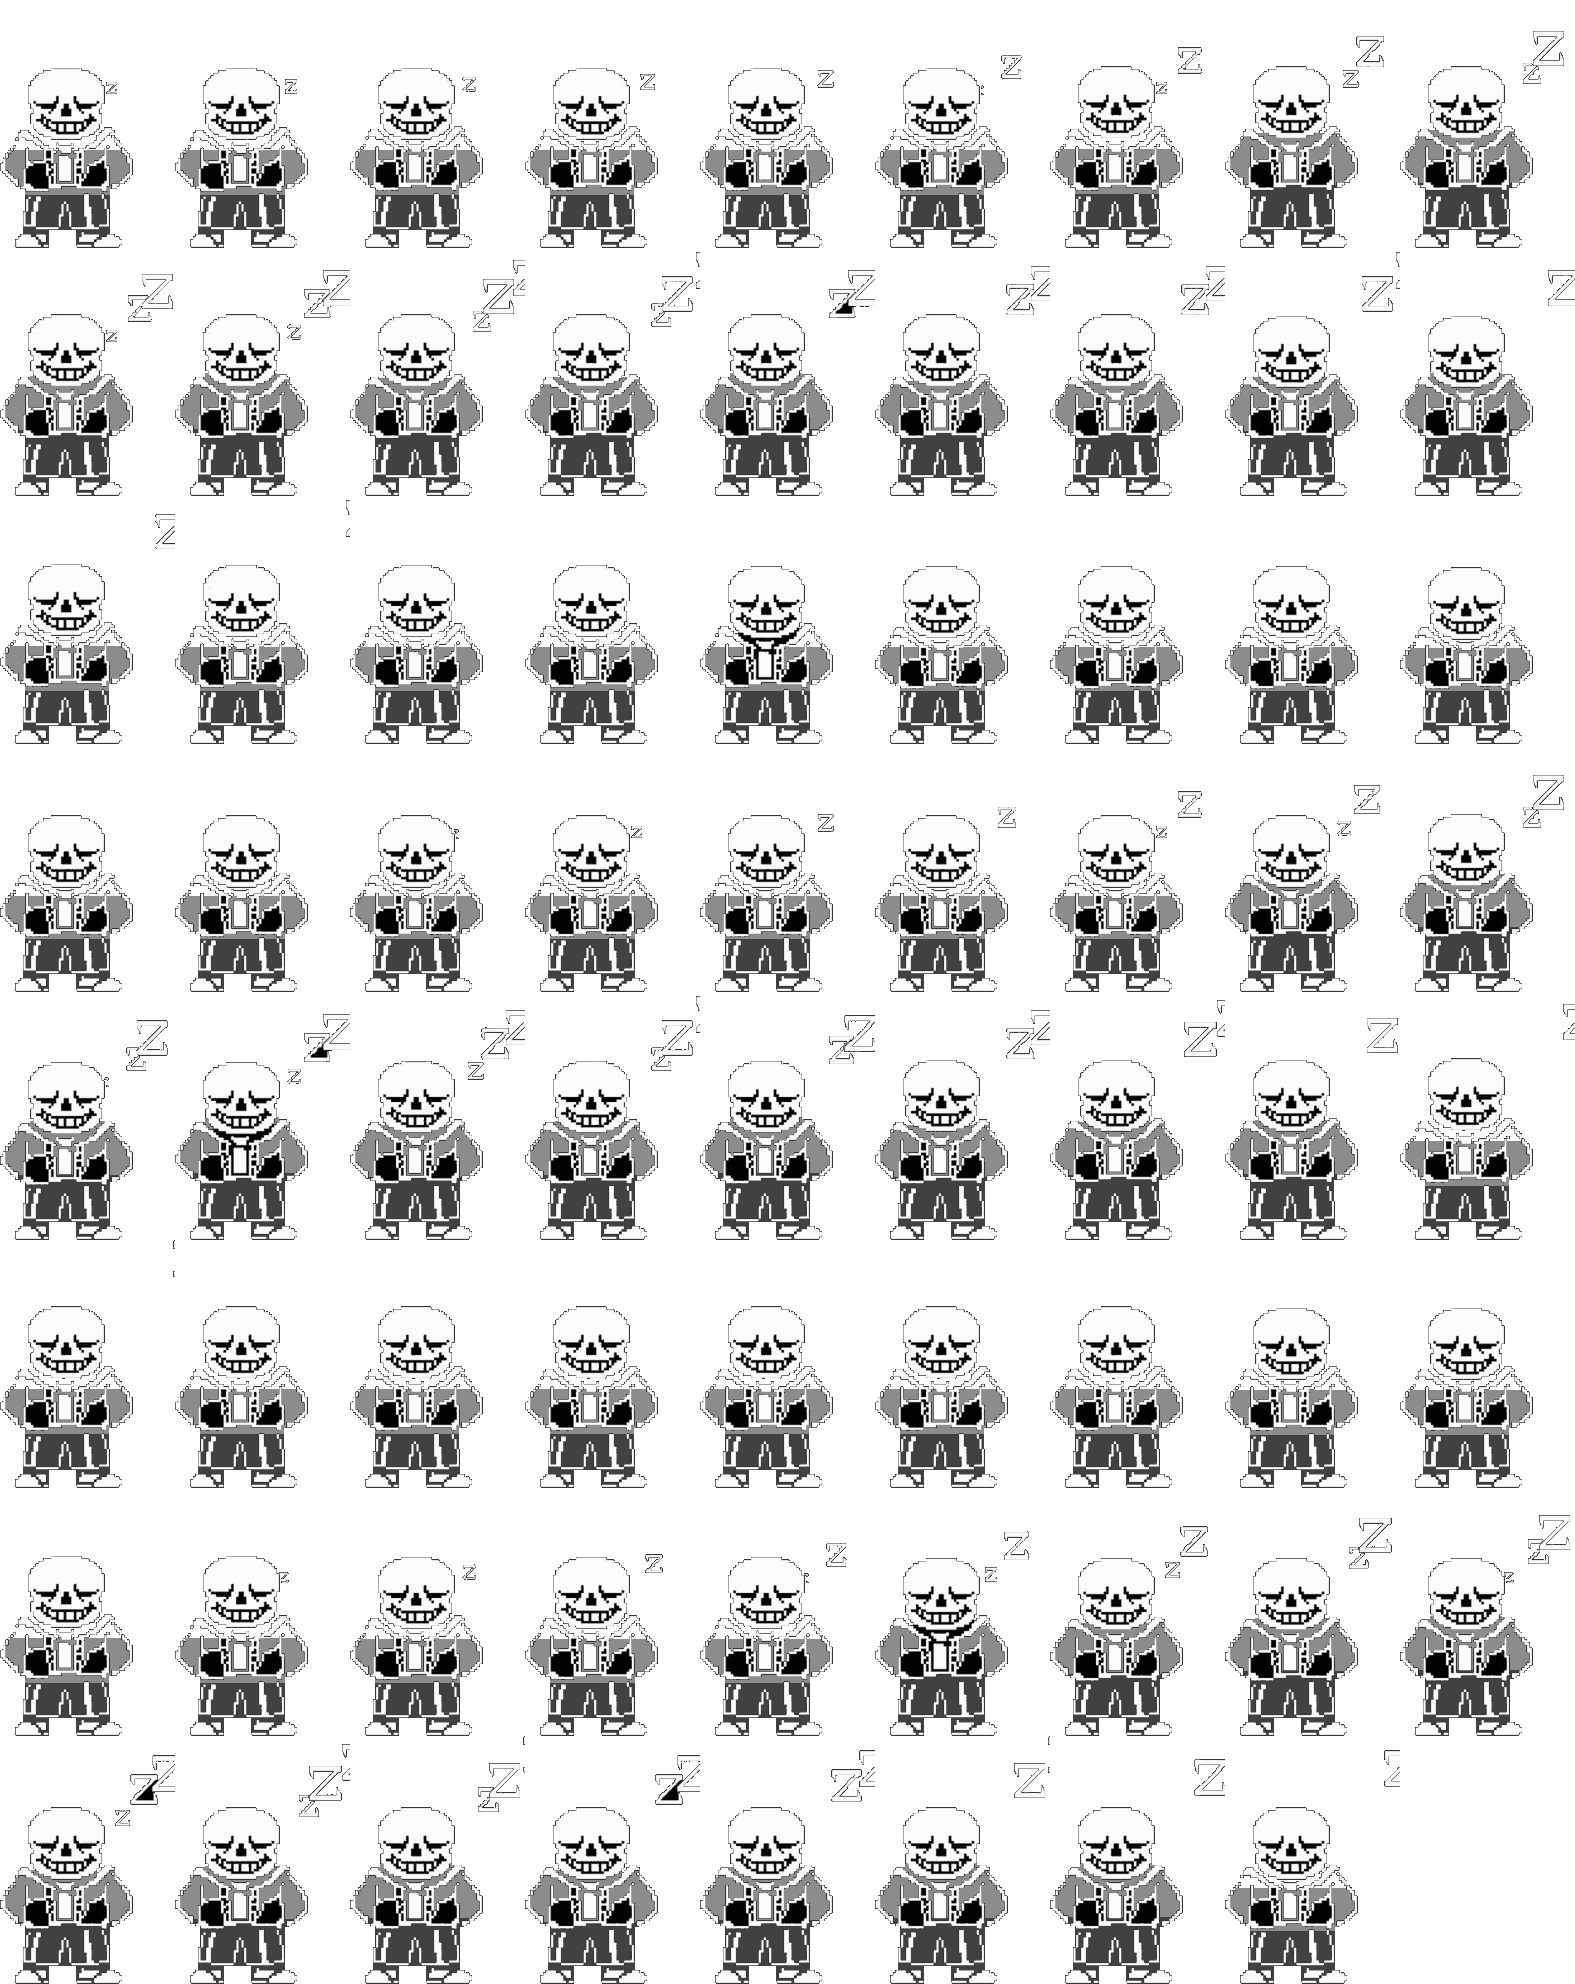
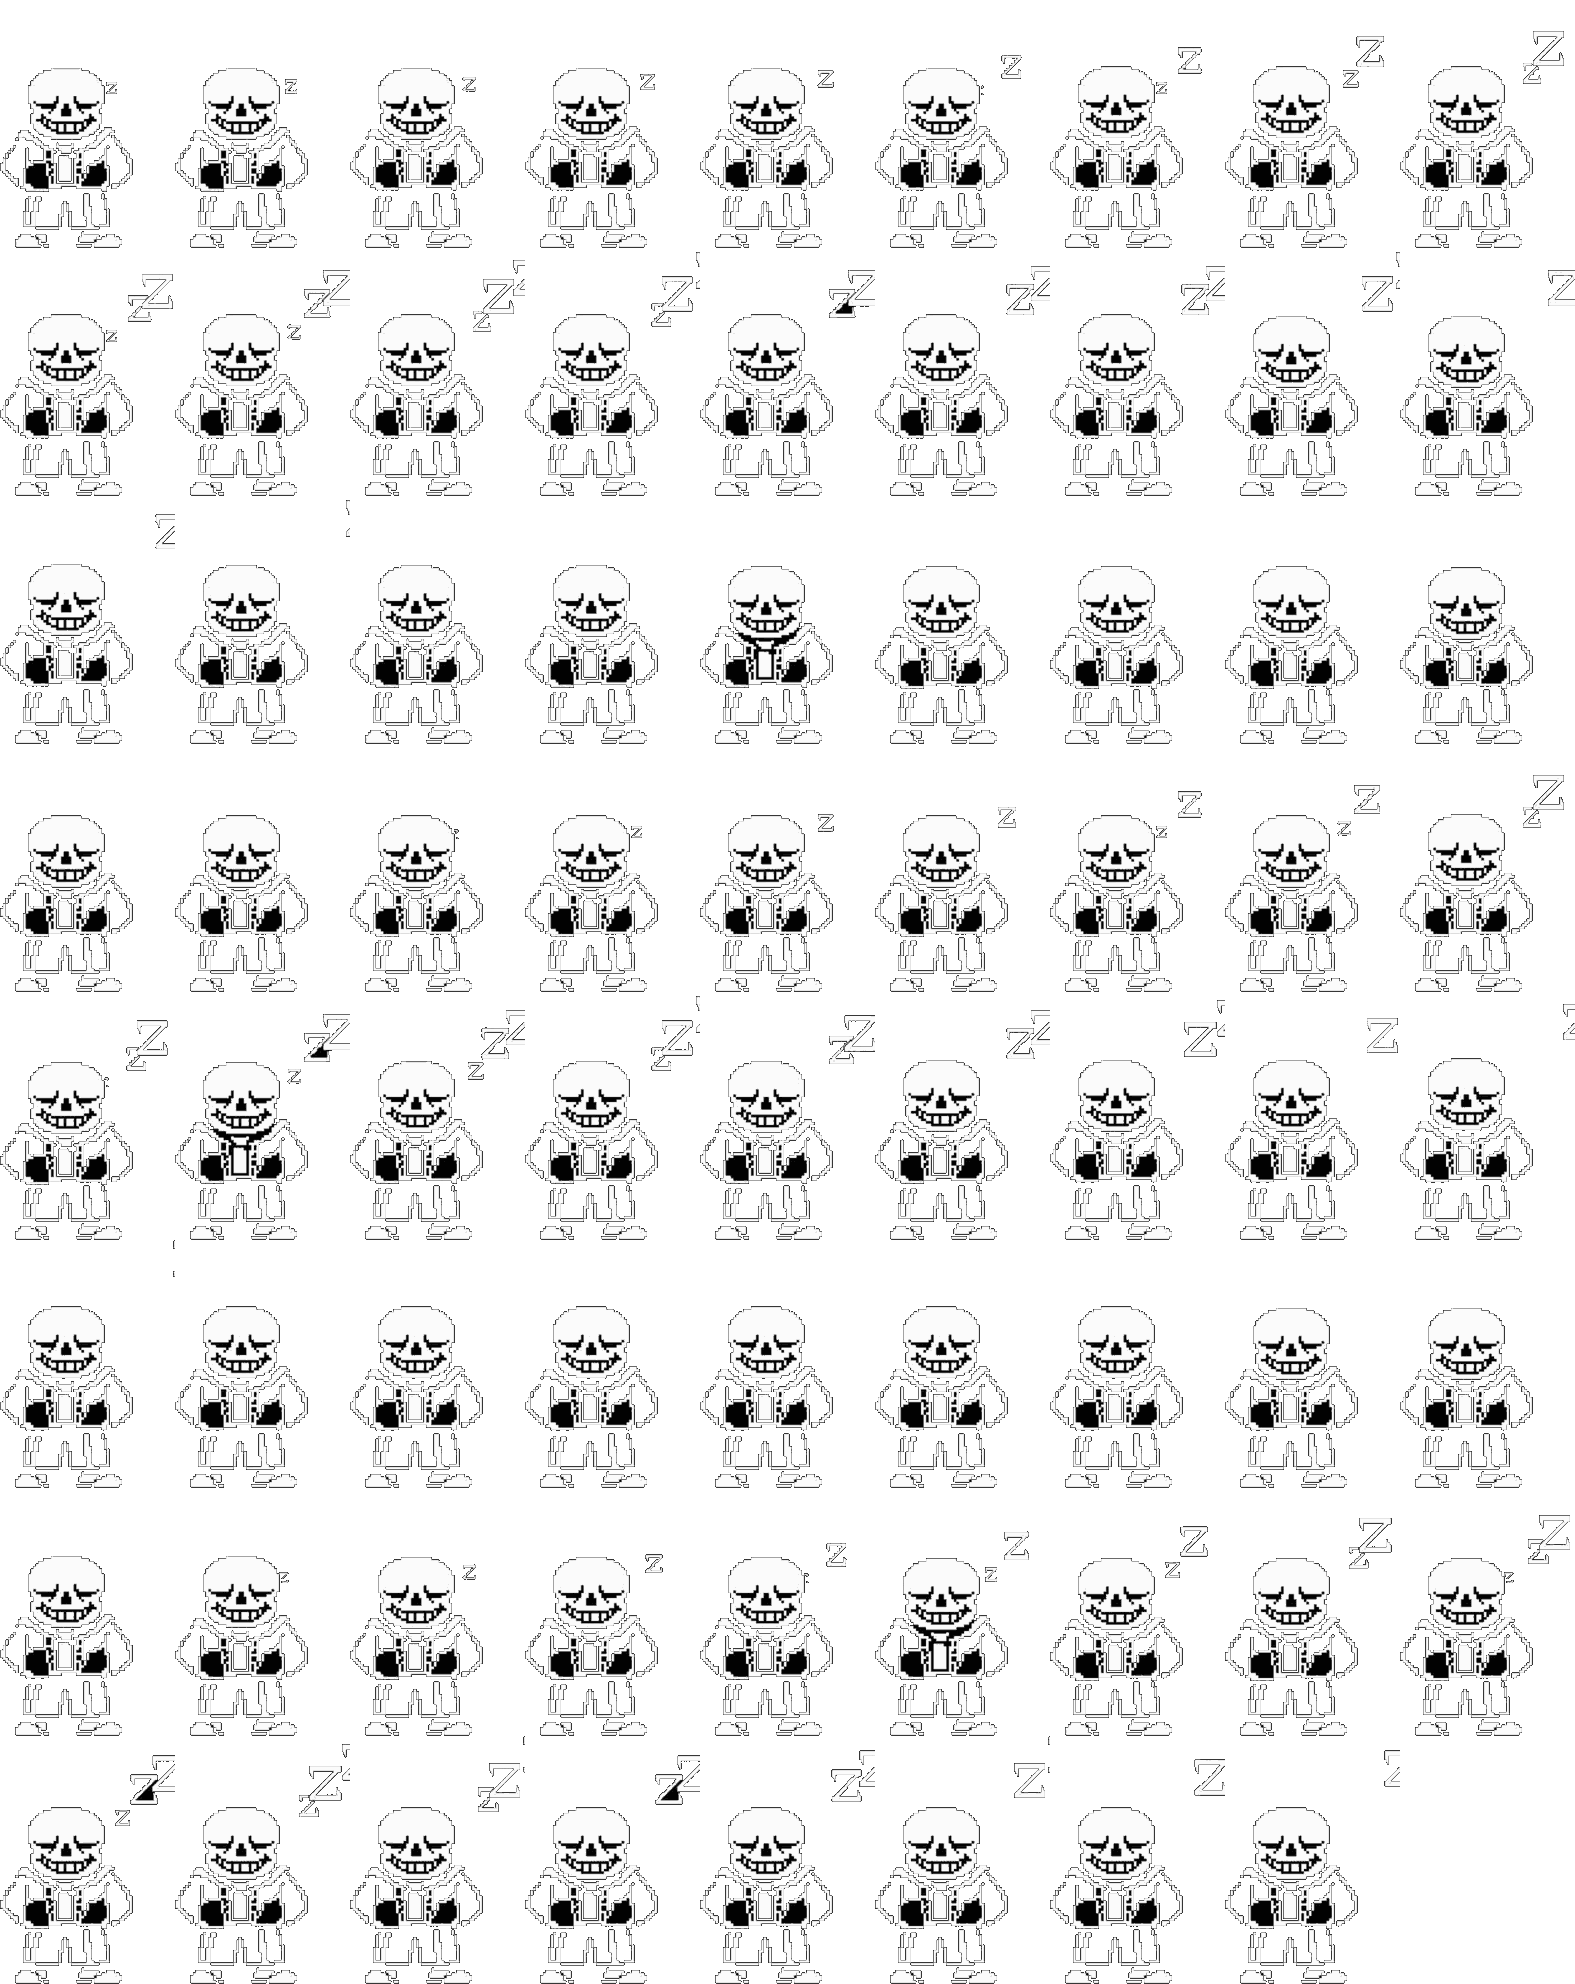
Revert Sans sprites to original (pre-fill); cache-bust
Claude-Session: https://claude.ai/code/session_015dETkK63Reb6JNnJAvDzmD

diff --git a/index.html b/index.html
@@ -1156,11 +1156,11 @@
     const SANS_HURT = new Image();
     let SANS_HURT_O = null;
     SANS_HURT.onload = () => { SANS_HURT_O = outlineSprite(SANS_HURT, 5, '#0b0b0b'); };
-    SANS_HURT.src = 'assets/sans-hurt.png?v=3';            // Sans ngồi gục
+    SANS_HURT.src = 'assets/sans-hurt.png?v=4';            // Sans ngồi gục
     const SANS_CUT = new Image();
     let SANS_CUT_O = null;
     SANS_CUT.onload = () => { SANS_CUT_O = outlineSprite(SANS_CUT, 4, '#0b0b0b'); };
-    SANS_CUT.src = 'assets/sans-cut.png?v=3';              // Sans đứng, vết chém đỏ ngang ngực
+    SANS_CUT.src = 'assets/sans-cut.png?v=4';              // Sans đứng, vết chém đỏ ngang ngực
     function outlineSprite(img, o, col) {                            // viền đen quanh sprite trắng cho dễ nhìn trên nền sáng
       const c = document.createElement('canvas'); c.width = img.width + o * 2; c.height = img.height + o * 2;
       const g = c.getContext('2d'), k = document.createElement('canvas'); k.width = img.width; k.height = img.height;
@@ -2349,7 +2349,7 @@
     // ----- Chuyển slide trong chế độ tim xanh -----
     // Chuyển tới slide kế (dir = +1: click, chém) hoặc slide trước (dir = -1: Backspace, tan)
     // ----- Slide 9.5 (Sans quiz): không có trong danh sách tim đỏ / tim xanh, chỉ xuất hiện khi bấm tiếp từ slide 9 ở chế độ tim xanh -----
-    const QUIZ_V = '20261124d';
+    const QUIZ_V = '20261125a';
     const quiz = { on: false };
     const quizEl = document.getElementById('quiz95');
     // Tải sẵn nhạc kết trong lúc người xem ở slide 9.5: vào slide 10 là chạy ngay (trình duyệt dùng lại bản đã tải)
@@ -2363,7 +2363,7 @@
     let quizWarm = false;
     function prefetchQuiz() {
       if (quizWarm) return; quizWarm = true;
-      const small = ['slide95-sans.html?embed&v=' + QUIZ_V, 'assets/papyrus.png', 'assets/papyrus-bw-anim.png', 'assets/papyrus-faces.png', 'assets/papyrus-head.png', 'assets/cauldron-px.png', 'assets/sans-head.png', 'assets/sans-shake.png?v=3', 'assets/sans-shrug.png?v=3', 'assets/sans-sleep.png?v=3', 'assets/gaster.png', 'assets/gaster-b.png',
+      const small = ['slide95-sans.html?embed&v=' + QUIZ_V, 'assets/papyrus.png', 'assets/papyrus-bw-anim.png', 'assets/papyrus-faces.png', 'assets/papyrus-head.png', 'assets/cauldron-px.png', 'assets/sans-head.png', 'assets/sans-shake.png?v=4', 'assets/sans-shrug.png?v=4', 'assets/sans-sleep.png?v=4', 'assets/gaster.png', 'assets/gaster-b.png',
         'assets/sfx-correct.mp3', 'assets/sfx-nuhuh.mp3', 'assets/sfx-prize.mp3', 'assets/sfx-rock.mp3', 'assets/sfx-sans-talk.mp3', 'assets/sfx-pap-nyeh.mp3', 'assets/sfx-pap-talk.mp3', 'assets/sfx-gaster-talk.mp3', 'assets/sfx-gaster-vanish.mp3', 'assets/sfx-wheel.mp3'];
       // thứ tự theo lúc dùng: minigame (file nhỏ) -> nhạc chọn nhân vật -> nhạc 3 nhân vật -> nhạc kết (slide 10) cuối cùng; tải nối đuôi, ưu tiên thấp để không giành mạng với lúc đang trình chiếu
       const big = ['assets/music-sans-select.mp3', 'assets/music-papyrus.mp3', 'assets/music-gaster.mp3', 'assets/music-megalovania.mp3', 'assets/music-waterflame.mp3?v=1'];
@@ -3110,7 +3110,7 @@
       tasks.push(['Fonts', font("16px 'Press Start 2P'", 'font1')], ['Fonts', font("700 20px Tinos", 'font2')], ['Fonts', font("400 20px 'Public Sans'", 'font3')]);
       slideImages.forEach((p, i) => tasks.push(['Slide ' + (i + 1), img(p)]));
       Object.values(START_IMG).forEach((p) => tasks.push(['Slide', img(p)]));
-      ['anim-blank.png', 'watch.png', 'spear.png', 'blaster.png', 'sans-cut.png?v=3', 'sans-hurt.png?v=3', 'stage.jpg', 's3-tram.jpg', 's4-tram.jpg', 's5-kitchen.jpg', 's6-water.jpg', 's7-games.jpg', 's7-tv.jpg', 's8-past.jpg', 's8-present.jpg',
+      ['anim-blank.png', 'watch.png', 'spear.png', 'blaster.png', 'sans-cut.png?v=4', 'sans-hurt.png?v=4', 'stage.jpg', 's3-tram.jpg', 's4-tram.jpg', 's5-kitchen.jpg', 's6-water.jpg', 's7-games.jpg', 's7-tv.jpg', 's8-past.jpg', 's8-present.jpg',
         'anim-brush.png', 'anim-pencil.png', 'icon-designer.png', 'icon-image.png', 'icon-presenter.png', 'icon-researcher.png'].forEach((f) => tasks.push(['Images', img('assets/' + f)]));
       tasks.push(['Style', get('slides.css')], ['Effects', get('fx-post.js')]);
       AUD.list.forEach((a) => { if (a.preload !== 'none' && !a.loop) tasks.push(['Audio', () => sfxBoostLoad(a)]); });      // mọi tiếng hiệu ứng: tải + giải mã sẵn

diff --git a/slide95-sans.html b/slide95-sans.html
@@ -265,7 +265,7 @@
     <div id="hint">CLICK SANS</div>
   </div>
 
-  <img id="sans" src="assets/sans-shrug.png?v=3" alt="Sans" draggable="false">
+  <img id="sans" src="assets/sans-shrug.png?v=4" alt="Sans" draggable="false">
   <div id="sansSp"></div>
 
   <img id="gasBig" src="assets/gaster.png" alt="" draggable="false">
@@ -437,8 +437,8 @@
   };
   // sheet: ảnh ghép khung hình (cột x hàng), n khung, fps
   const SHEETS = {
-    shake: { src: 'assets/sans-shake.png?v=3', fw: 199, fh: 268, cols: 6, n: 12, fps: 10 },
-    sleep: { src: 'assets/sans-sleep.png?v=3', fw: 175, fh: 248, cols: 9, n: 71, fps: 10 }
+    shake: { src: 'assets/sans-shake.png?v=4', fw: 199, fh: 268, cols: 6, n: 12, fps: 10 },
+    sleep: { src: 'assets/sans-sleep.png?v=4', fw: 175, fh: 248, cols: 9, n: 71, fps: 10 }
   };
   const sp = $('sansSp'); let spTimer = 0;
   function playSheet(name, h, left, top) {
